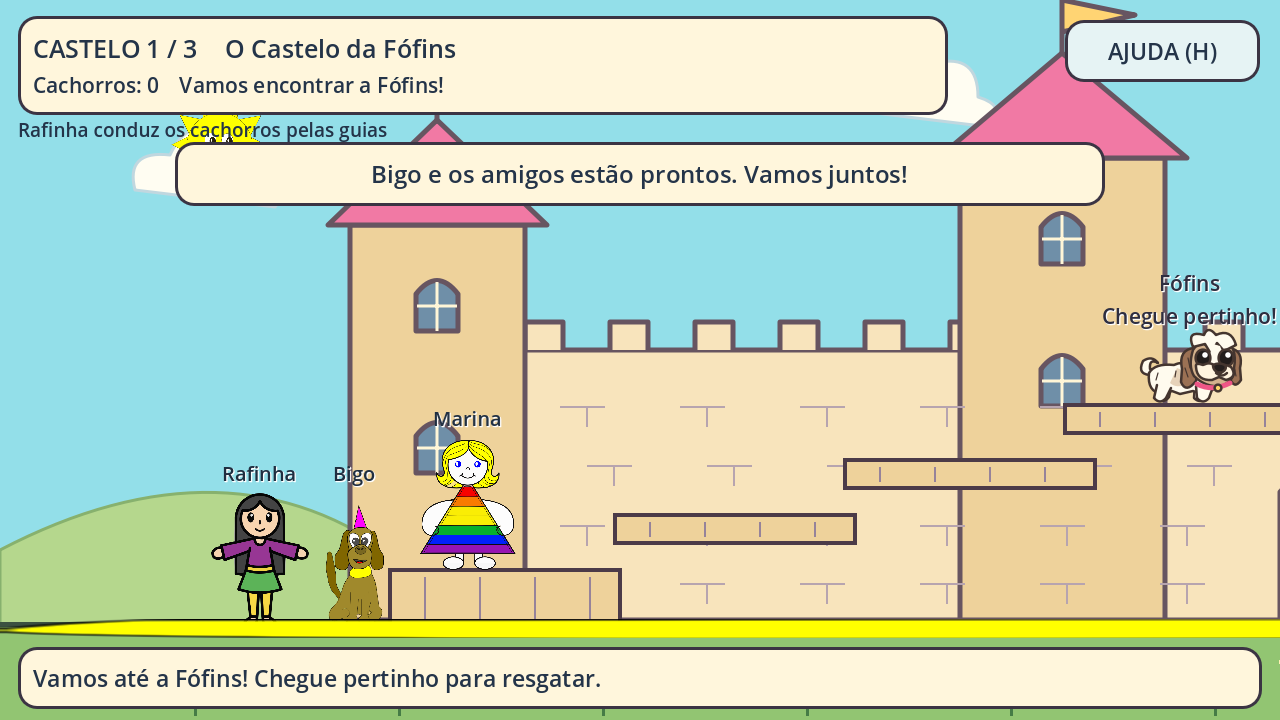
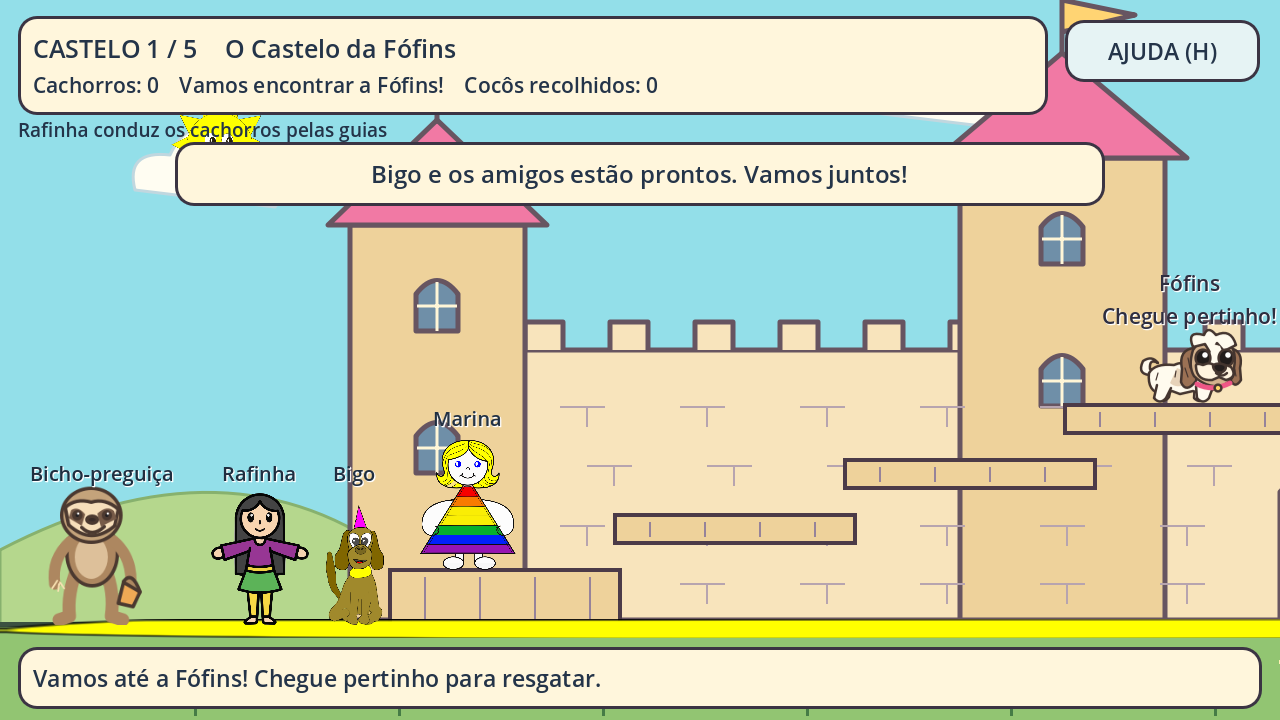
docs: record verified Chrome results, published expansion and final screenshots

diff --git a/docs/test-report.md b/docs/test-report.md
@@ -1,64 +1,98 @@
-# Relatório de verificações
+# Verificações da expansão da preguiça
 
-Engine utilizada: **Godot 4.5.2 Standard**, `4.5.2.stable.official.6ce3de25a`.
+Engine: **Godot 4.5.2 Standard**, `4.5.2.stable.official.6ce3de25a`.
 
-## Executadas localmente
+## Execução funcional automatizada
 
-| Verificação | Método | Resultado |
+**134 verificações Godot e quatro testes Python passaram**, localmente e no
+GitHub Actions. O arquivo de progresso dos testes é isolado do da família.
+O teste de navegador percorreu a exportação real com teclado e mouse, sem
+teleporte, alteração de estado ou atalhos de resgate pelo JavaScript.
+
+| Requisito | Evidência executada | Resultado |
 | --- | --- | --- |
-| Carregamento de oito cenas | Godot headless, incluindo cenas originais e os três castelos | Passou |
-| Scripts | Importação, execução e testes com inspeção de erros | Passou, sem erros críticos |
-| Ações de teclado | InputEventKey físico: ambos os sentidos e pulo dos três personagens; E do Bigo | Passou |
-| Resgate Fófins | Proximidade real na Area2D, inclusão no estado e acompanhante | Passou |
-| Resgate inicial e duplicado | Fófins obrigatoriamente primeira; resgate não duplicado | Passou |
-| Acompanhamento | Caminhada, parada gradual, espaçamento, trilha com pulo e troca de condutor | Passou |
-| Progressão | Portas bloqueadas antes do objetivo, duas transições e festa final | Passou |
-| Estado entre cenas | Fófins no segundo castelo e dois cães no terceiro | Passou |
-| Salvamento | Gravação/leitura, arquivo corrompido, falha de escrita e reinício | Passou |
-| Arte | Importação dos oito SVGs dos cachorros, XML válido, ausência de imagens externas | Passou |
-| Exportação Web | Template oficial 4.5.2, arquivos HTML/JS/WASM/PCK e execução sem threads | Passou |
-| Publicação isolada | Quatro testes Python: cópia exata, recusa de destino existente, mudança da produção e exportação incompleta | Passou |
-| Produção real | Snapshot dos nove arquivos publicados, incluindo AudioWorklets e confirmação SHA-256 | Passou |
+| Cenas e scripts | Importação sem erros, instanciação de 11 cenas e execução das cinco fases | Passou |
+| Recursos visuais | 40 texturas dos cães importadas; todos os SVGs têm XML válido e não incorporam fotos | Passou |
+| Controles originais | InputEventKey físico, direita/esquerda/pulo dos três personagens e E do Bigo | Passou |
+| Controles da preguiça | J/K/U movimentam o ator real; I aciona coleta e animação | Passou |
+| Conflitos de teclado | Comparação das ações físicas de todos os personagens | Nenhum |
+| Preguiça manual | Ajuda ligada, grupo distante e C não mudam sua posição horizontal | Passou |
+| Cocô por temporizador | Cachorro resgatado gera objeto no piso e anima sua pose | Passou |
+| Geração segura | Rejeita ar, paredes e regiões abaixo do cenário | Passou |
+| Limite de cocôs | Geração e temporizador respeitam o limite simultâneo | Passou |
+| Coleta por proximidade | I longe e acima do piso não recolhe; perto recolhe e incrementa total | Passou |
+| Desaparecimento | Sai da lista, anima e libera o objeto; não coleta duas vezes | Passou |
+| Transição e festa | Desativação/limpeza explícita; festa não cria gerador | Passou |
+| Resgates novos | Quatro cães na quarta fase e quatro na quinta; Fófins obrigatoriamente primeiro | Passou |
+| Guias e formação | Caminhada, parada gradual, pulo, condutor configurável e formação de dez cães espaçados | Passou |
+| Progressão | Três fases preservadas, duas adicionais e festa; portas exigem todos os resgates da fase | Passou |
+| Buraco explorável | Entrada física, piso inferior e saída pelos degraus; preguiça sai com K/U | Passou |
+| Richard | Escondido antes do gatilho, aparece por colisão real, continua visível e não vira cachorro | Passou |
+| Salvamento | Leitura, escrita, corrupção, indisponibilidade, recuperação e reinício | Passou |
+| Compatibilidade | Save anterior mantém Fófins, converte Tokio e abre a quarta fase após o final antigo | Passou |
+| Web | Templates oficiais 4.5.2, Compatibility e execução sem threads | Passou |
+| Navegador | Percurso dos cinco castelos e coleta no Google Chrome 154.0.8037.97 | Passou |
+| Produção | Nove arquivos oficiais copiados e comparados por SHA-256; main e workflow oficial intactos | Passou |
 
-**59 verificações Godot e 4 testes Python passaram.** O arquivo de progresso dos
-testes é isolado do arquivo usado pela família.
+A execução Chromium [38307737629](https://github.com/rafaelsantanna13/Rafinha2D/actions/runs/38307737629)
+passou em **23 verificações**, mais o carregamento da exportação compactada.
+Incluiu Help, controle manual, coleta, Tokio, oito novos resgates, buraco,
+Richard, saída, festa e salvamento após recarregar. Sem erros críticos.
 
-## Navegador e revisão visual
+## Falhas encontradas e corrigidas
 
-O workflow experimental instala Chromium e executa `tests/web_adventure.cjs`.
-Ele abre o WASM, usa os comandos reais, resgata os dois cães, percorre os três
-castelos, recarrega o navegador para validar IndexedDB e captura a festa.
-A execução completa no Chromium passou em **12 verificações**, incluindo dois
-resgates, três fases, festa e dois recarregamentos com IndexedDB. O carregamento
-da exportação compactada da hospedagem alternativa também passou, abrindo o
-menu e o primeiro castelo sem erros. As capturas de menu, resgates e festa foram
-inspecionadas visualmente; foram corrigidos contraste, tamanho de Marina,
-ligação das guias às coleiras e espaçamento dos acompanhantes.
+- A versão numérica do JSON precisava de conversão antes da comparação com o
+  catálogo de versões; a leitura e a migração foram corrigidas e retestadas.
+- O percurso automatizado pulava antes de um cocô localizado no piso inferior;
+  a coleta recusou corretamente. O teste passou a parar antes da plataforma.
+- O menu com CONTINUAR precisava manter sua altura; JOGAR/CONTINUAR ficaram em
+  uma linha e a posição dos botões é verificada no navegador.
+- O desenho da entrada da toca estava abaixo da camada do chão. A ordem das
+  camadas foi corrigida e Richard recebe seu nome só após a descoberta.
 
-Execução Web de referência: [38292205748](https://github.com/rafaelsantanna13/Rafinha2D/actions/runs/38292205748).
-As imagens estão em [screenshots](screenshots/).
+## Pendências humanas e limites
 
-O teste manual em um teclado físico da família e a avaliação da diversão pela
-Rafaela continuam pendentes. Não foi simulado que esses testes pessoais ocorreram.
+A família ainda precisa avaliar diversão, dificuldade, desenhos e frequência
+com seu teclado físico. Nenhum teste pessoal da Rafaela foi alegado.
+As identidades dos oito amigos novos são provisórias. A frequência e o limite
+podem ser alterados no gerenciador sem mudar os cães ou as fases.
 
-A publicação em /teste/ foi impedida pela regra do ambiente github-pages, que
-autoriza somente a main. O workflow permanece com deploy manual opcional e
-verificações automáticas. O preview foi publicado separadamente em [Sites](https://rafinha2d-castelos-teste.clean-aspen-8728.chatgpt.site),
-com acesso privado do proprietário; a main, seu
-workflow e os arquivos oficiais publicados continuam intactos.
+O progresso Web depende do armazenamento local do navegador. Não há nuvem nem
+sincronização entre computadores. Patinhas e surpresa recomeçam numa revisita;
+resgates, fases e total recolhido permanecem salvos. Cocôs no chão são limpos
+entre fases.
 
-## Avaliação que cabe à Rafaela
+O ambiente github-pages continua aceitando somente a main. Não foi enfraquecido
+nem utilizado para publicar esta feature. O preview separado usa Sites e
+preserva o acesso privado do proprietário, com login na sua conta. O pacote
+contém a engine Godot real, compactada sem perda para caber na hospedagem.
 
-Reconhecer Fófins, aprovar nome e desenho do amigo, preferir os temas dos castelos
-e avaliar a dificuldade dos pulos. A aparência e diversão precisam dessa
-avaliação humana; um teste automatizado não pode aprovar a história por ela.
+## Rodada final e publicação
 
-## Publicação confirmada
+A execução final [38308558823](https://github.com/rafaelsantanna13/Rafinha2D/actions/runs/38308558823),
+no commit `b91615a41911bf4a67b59c1780daddee5222f277`, passou com:
+**134 verificações Godot, quatro testes Python e 26 verificações no Google Chrome
+154.0.8037.97**. O smoke test da exportação compactada passou. Não há falhas
+pendentes nesses testes nem erros críticos de script/navegador. Os nove arquivos
+oficiais passaram pela comparação SHA-256 novamente após preparar o preview.
+
+Capturas inspecionadas:
+[menu com progresso](screenshots/03b-menu-com-progresso.png),
+[Help](screenshots/02b-help.png),
+[coleta](screenshots/04b-coco-recolhido.png),
+[Castelo dos Muitos Cachorros](screenshots/06-castelo-muitos-cachorros.png),
+[festa com dez cães](screenshots/08-festa.png).
+A [toca de Richard](screenshots/07-toca-richard-responsaveis.png) contém spoiler
+para os responsáveis. O relatório bruto fica em screenshots/browser-report.json.
 
 Preview: https://rafinha2d-castelos-teste.clean-aspen-8728.chatgpt.site
 
-A publicação Sites foi confirmada como succeeded. Exige login na conta do
-proprietário. O pacote publicado contém o export Godot; SHA-256 do WASM após
[1 lines of base64/hex data omitted]
-A inspeção visual foi feita nas capturas Chromium, não em uma sessão manual
-da família. Nenhuma publicação foi feita na main nem no endereço oficial.
+O pacote publicado tem PCK SHA-256
[1 lines of base64/hex data omitted]
+A descompactação do WASM preserva SHA-256
[1 lines of base64/hex data omitted]
+O acesso continua privado da conta do proprietário.
+
+A publicação experimental foi confirmada como **succeeded** pelo provedor.
+O preview usa o mesmo endereço da expansão anterior, agora com as cinco fases.
+A main e a branch anterior permanecem nos commits inspecionados na auditoria.

diff --git a/docs/audit.md b/docs/audit.md
@@ -30,3 +30,25 @@ pulo facilitam o uso por crianças sem trocar as teclas.
 Quatro arquivos de fotografias foram acessados e inspecionados visualmente.
 Dois arquivos apresentam a mesma fotografia frontal; os demais mostram detalhes
 do rosto e perfil. Nenhuma fotografia foi colocada no checkout do repositório.
+
+## Nova expansão — continuidade auditada
+
+A main permaneceu em `7d7077aea3714a86c719201f1566dfecbfd7fd26`.
+Antes da expansão da preguiça, foram verificadas as branches e os PRs abertos:
+`feature/castle-dog-rescue-adventure` estava em
+`1b98f2cd9203408e89f7b468a2c7112b2a9d88f7`, com o PR #1 em rascunho, ainda não
+incorporado. Essa branch continha o catálogo de três fases, a Fófins, o amigo
+provisório, o sistema de resgate/coleiras, o salvamento e a publicação isolada.
+A nova `feature/sloth-poop-richard-two-castles` parte desse commit e preserva
+seu histórico. Não foi criada outra implementação incompatível.
+
+J/K/U/I não estavam em uso nas ações dos protagonistas. Foram adicionadas ações
+próprias da preguiça, mantendo os eventos antigos. O workflow oficial, o script
+original dos personagens e as cenas Mina/pum/menu permanecem idênticos à main.
+A cena mundo_rafinha mantém somente as duas correções de imagens ausentes já
+feitas na expansão anterior. As fotografias de Fófins não foram copiadas; seus
+quatro SVGs também permanecem iguais aos da expansão anterior.
+
+O segundo cão agora é Tokio, fêmea e preta. O ID antigo no save é migrado para
+`tokio`; não é necessário apagar o progresso para receber a expansão. As duas
+novas fases foram acrescentadas após os três castelos inspecionados.
